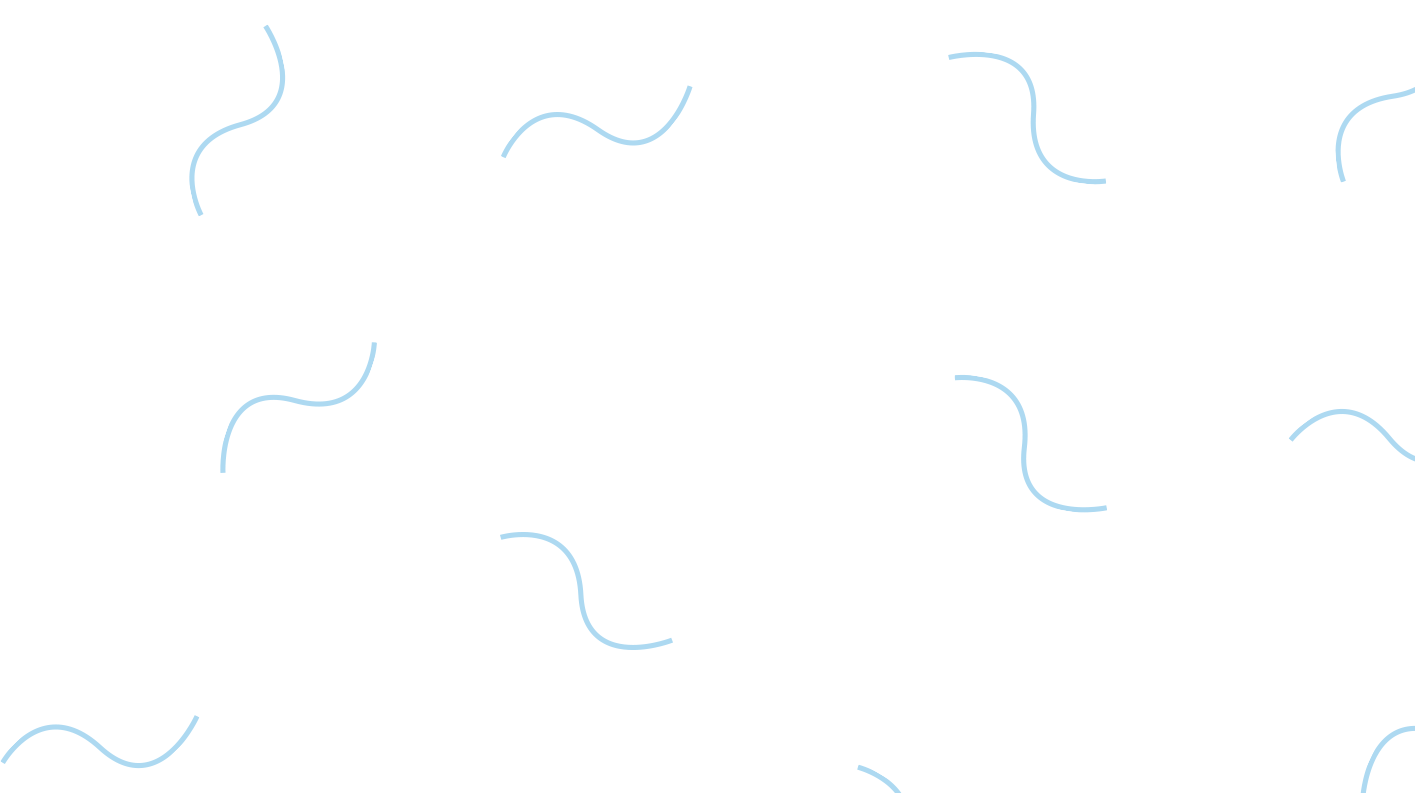
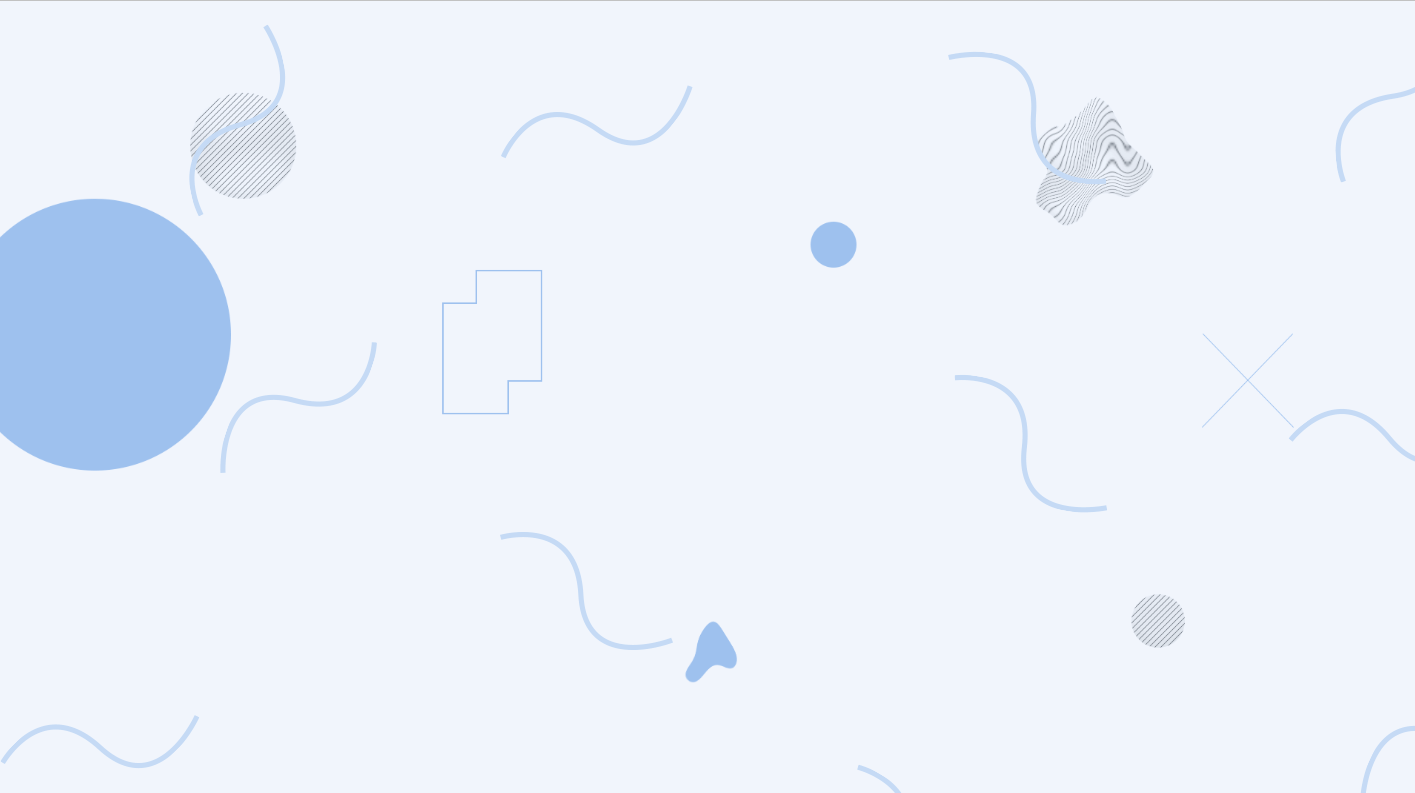
Added Main page and styles

diff --git a/index.html b/index.html
@@ -17,8 +17,9 @@
   <button type="button" class="btn btn-primary menu"><i class="fas fa-bars"></i></i></button>
   <div class="navbar-menu vertical-align justify-content-center">
     <ul class="links-menu text-center">
-      <a href="#" class="links"><li >Productos</li></a>
-      <a href="#" class="links"><li>Muestra</li></a>
+      <a href="#" class="links"><li >Sobre mi</li></a>
+      <a href="#" class="links"><li>Habilidades</li></a>
+      <a href="#" class="links"><li>Intereses</li></a>
     </ul>
   </div>
 </nav>
@@ -28,41 +29,14 @@
 
   <div class="container-fluid principal vertical-align justify-content-center ">
       <div class="text-center arreglar">
-        <h1><Strong>José Luis</Strong> Garza</h1>
-        <a href="#sobre-mi"><button type="button" class="btn btn-warning mt-3">Conoce mas sobre mi</button></a>
+        <h1 class="nombre"><Strong>José Luis</Strong> &nbsp;Garza</h1>
+        <a href="#sobre-mi"></a><button type="button" class="btn btn-warning mt-3">Conoce mas sobre mi</button></a>
 
-        <embed id="figura" src="images/ondas3.svg">
+        <embed id="figura" src="images/ondas4.svg">
       </div>
   </div>
 
-  <div id="sobre-mi" class="row separacion text-justify">
-    <div class="col-lg text-white mt-5">
-  <img class="card-img img-fluid" src="martillo6.png" alt="Card image">
-  <div class="card-img-overlay">
-    <h5 class="card-title text-center">Martillo</h5>
-    <p class="card-text">This is a wider card with supporting text below as a natural lead-in to additional content. This content is a little bit longer.</p>
-    <p class="card-text">Last updated 3 mins ago</p>
-  </div>
-</div>
 
-<div class="col-lg text-white mt-5">
-    <img class="card-img img-fluid" src="proto1.png" alt="Card image">
-    <div class="card-img-overlay">
-    <h5 class="card-title text-center">Prototipo</h5>
-    <p class="card-text">This is a wider card with supporting text below as a natural lead-in to additional content. This content is a little bit longer.</p>
-    <p class="card-text">Last updated 3 mins ago</p>
-  </div>
-</div>
-
-<div class="col-lg text-white mt-5">
-    <img class="card-img img-fluid" src="martillo6.png" alt="Card image">
-    <div class="card-img-overlay">
-    <h5 class="card-title text-center">Martillo</h5>
-    <p class="card-text">This is a wider card with supporting text below as a natural lead-in to additional content. This content is a little bit longer.</p>
-    <p class="card-text">Last updated 3 mins ago</p>
-  </div>
-</div>
-</div>
 
 
 
@@ -70,21 +44,21 @@
       <div class="col-lg separacion-individual">
         <h5 class="mb-4 text-center">Calidad</h5>
           <div class="container-fluid text-center mb-4">
-               <i class="far fa-check-circle fa-2x" style="color: #fff060;"></i>
+               <i class="far fa-check-circle fa-2x" style="color: #9bcdf2;"></i>
           </div>
           <p class="text-center lead">Lorem ipsum dolor sit amet, consectetur adipiscing elit. Ut suscipit eu turpis at tempus.</p>
       </div>
       <div class="col-lg separacion-individual">
             <h5 class="mb-4 text-center">Atención</h5>
               <div class="container-fluid text-center mb-4">
-                  <i class="far fa-heart fa-2x" style="color: #fff060;"></i>
+                  <i class="far fa-heart fa-2x" style="color: #9bcdf2;"></i>
               </div>
         <p class="lead text-center">Lorem ipsum dolor sit amet, consectetur adipiscing elit. Ut suscipit eu turpis at tempus.</p>
       </div>
       <div class="col-lg separacion-individual">
             <h5 class="mb-4 text-center">Seguimiento</h5>
             <div class="container-fluid text-center mb-4">
-              <i class="far fa-chart-bar fa-2x" style="color: #fff060;"></i>
+              <i class="far fa-chart-bar fa-2x" style="color: #9bcdf2;"></i>
           </div>
         <p class="lead text-center">Lorem ipsum dolor sit amet, consectetur adipiscing elit. Ut suscipit eu turpis at tempus.</p>
       </div>

diff --git a/style.css b/style.css
@@ -14,6 +14,24 @@ background: #fff;
 }
 */
 
+.nombre {
+  border-radius: 1em;
+  display: flex;
+  padding-left: 0.6em;
+  padding-right: 0.6em;
+  padding-top: 0.1em;
+  padding-bottom: 0.1em;
+  background: linear-gradient(to right, rgb(39, 39, 39) 50%, transparent 50%);
+  background-size: 201% 100%;
+  background-position: right bottom;
+  transition: all .8s ease-out;
+}
+
+.nombre:hover {
+  background-position: left bottom;
+  color: #fff;
+}
+
 
 
 .centrar{
@@ -120,7 +138,7 @@ embed {
 }
 
 .principal {
-  background: url('images/fondo-background-azul-pro.png');
+  background: url('images/fondo-background-azul-mejora.png');
   height: 100%;
   overflow: hidden;
 
@@ -148,7 +166,7 @@ embed {
 
 .btn-warning {
   /* background-color: #ffec49; */
-  background-color: rgb(157, 195, 230);
+  background-color: #9bcdf2;
   border-color: transparent;
   color: #fff;
   border-radius: 0px;
@@ -159,6 +177,7 @@ embed {
   animation-delay: 0.6s;
   border-radius: 2em;
   box-shadow: 0px 4px 10px 0px rgba(0, 0, 0, 0.07);
+  transform: scale(1.1);
 }
 
 .btn-warning:hover {
@@ -167,8 +186,13 @@ embed {
   background-color: rgba(157, 195, 229, 0.863);
   border-color: transparent;
   box-shadow: none;
+  transform: scale(1);
+}
 
+.principal:hover .nombre {
 
+  background-position: left bottom;
+  color: #fff;
 }
 
 h1 {
@@ -204,7 +228,6 @@ h1 {
   animation-name: figura;
   animation-duration: 23s;
   animation-iteration-count: infinite;
-
 }
 
 @keyframes figura {
@@ -215,8 +238,8 @@ h1 {
 }
 
 @keyframes boton {
-  0%{ opacity: 0; }
-  100%{ opacity: 1; }
+  0%{ opacity: 0; margin-left: 5em; }
+  100%{ opacity: 1; margin-left: 0em; }
 }
 
 @keyframes texto {
@@ -247,7 +270,6 @@ embed {
   background: transparent;
   color: #333;
   transform: rotate(90deg);
-
 }
 
 .menu:hover{
@@ -307,6 +329,7 @@ embed {
 }
 
 
+
 .links-menu {
   list-style: none;
   display: none;
@@ -334,7 +357,7 @@ a.links:hover {
 
 @keyframes href {
   0%{color: #fff; font-size: 1em;}
-  100%{color: #fff5a0; font-size: 2em;}
+  100%{color: #b1e5fd; font-size: 2em;}
 }
 
 .separacion {
@@ -425,6 +448,7 @@ footer {
   .container {
     padding: 30px;
   }
+
 }
 
 .card-img-overlay {
